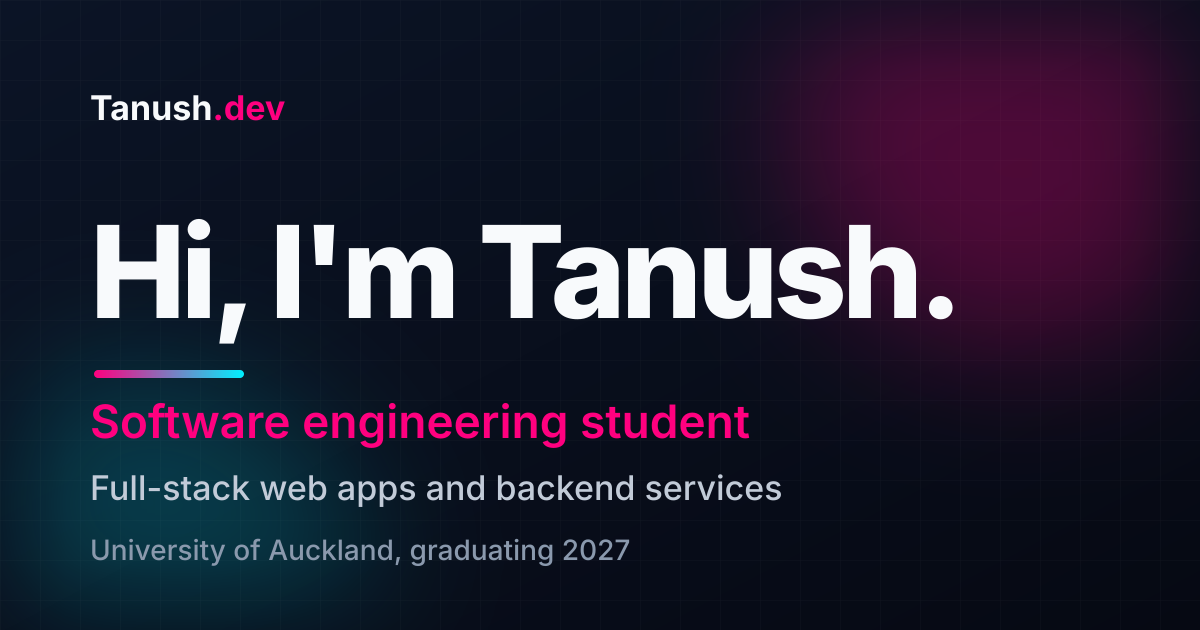
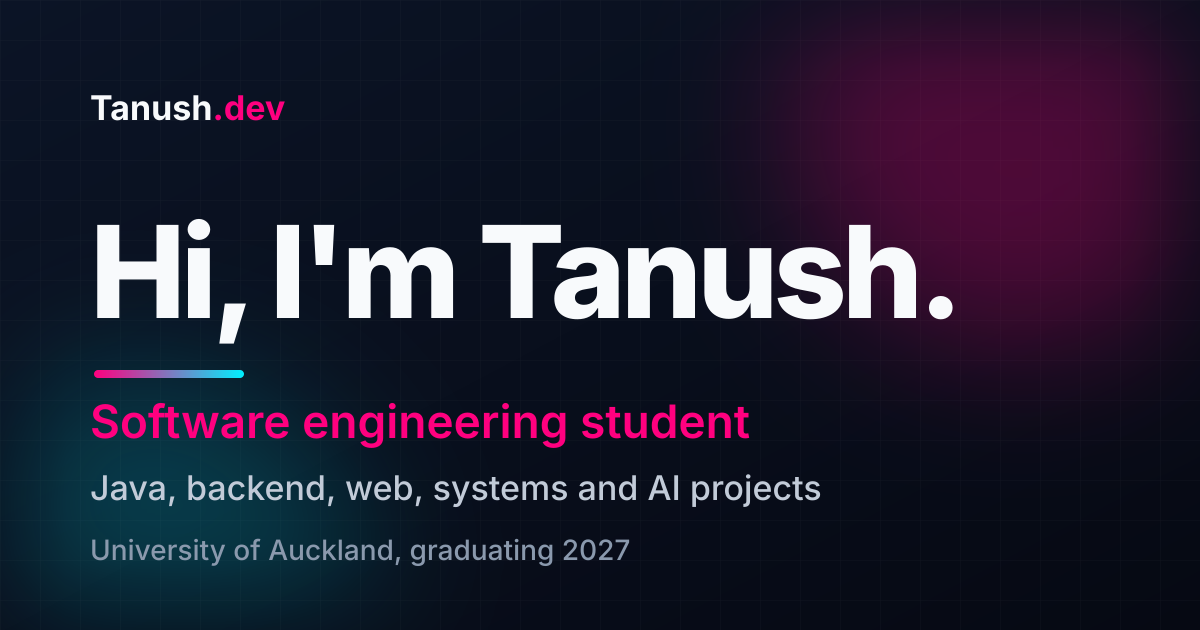
docs: remove language list from hero and descriptions

Changed region(s): [[0.0617, 0.754, 0.6783, 0.8143]]

diff --git a/index.html b/index.html
@@ -4,7 +4,7 @@
     <meta charset="UTF-8">
     <meta name="viewport" content="width=device-width, initial-scale=1.0">
     <title>Tanush | Software Engineer Portfolio</title>
-    <meta name="description" content="Portfolio of Tanush, a Software Engineering (Honours) student at the University of Auckland. Full-stack web apps, backend services and systems projects.">
+    <meta name="description" content="Portfolio of Tanush, a Software Engineering (Honours) student at the University of Auckland. Software projects across backend, web, systems and AI.">
     <meta name="theme-color" content="#060913">
     <link rel="icon" href="favicon.svg" type="image/svg+xml">
 
@@ -13,7 +13,7 @@
          If you use a custom domain later, update og:url and og:image. -->
     <meta property="og:type" content="website">
     <meta property="og:title" content="Tanush | Software Engineer Portfolio">
-    <meta property="og:description" content="Software Engineering (Honours) student at the University of Auckland. Full-stack web apps, backend services and systems projects.">
+    <meta property="og:description" content="Software Engineering (Honours) student at the University of Auckland. Software projects across backend, web, systems and AI.">
     <meta property="og:url" content="https://goldengamer255.github.io/personal-portfolio/">
     <meta property="og:image" content="https://goldengamer255.github.io/personal-portfolio/og-image.png">
     <meta property="og:image:width" content="1200">
@@ -49,8 +49,8 @@
         <div class="hero-container">
             <div class="hero-text animate-fade-in">
                 <h1>Hi, I'm Tanush.</h1>
-                <p class="hero-lead">A software engineer focused on building clean, efficient, and impactful web applications.</p>
-                <p class="hero-sub">I'm a Software Engineering (Honours) student at the University of Auckland, graduating in 2027. I build full-stack apps and backend services, and I like understanding how things work underneath.</p>
+                <p class="hero-lead">A software engineer focused on building clean, efficient, and impactful web and software applications.</p>
+                <p class="hero-sub">I'm a Software Engineering (Honours) student at the University of Auckland, graduating in 2027. I build full-stack apps, backend services and general software projects, and I like understanding how things work underneath.</p>
                 <div class="hero-actions">
                     <a class="btn btn-primary" href="#projects">See my projects</a>
                     <a class="btn btn-ghost" href="#contact">Get in touch</a>
